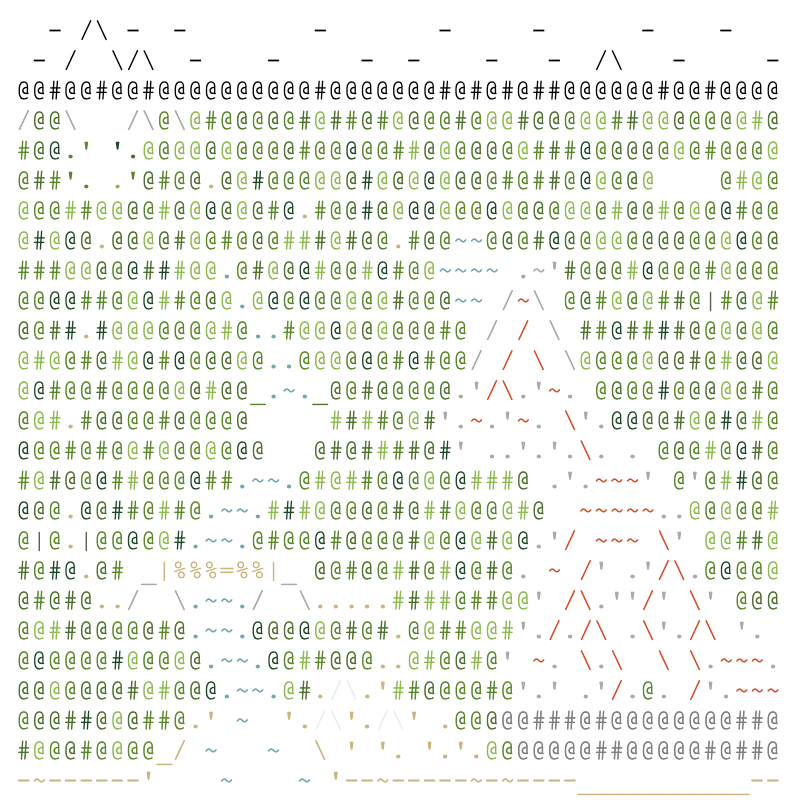
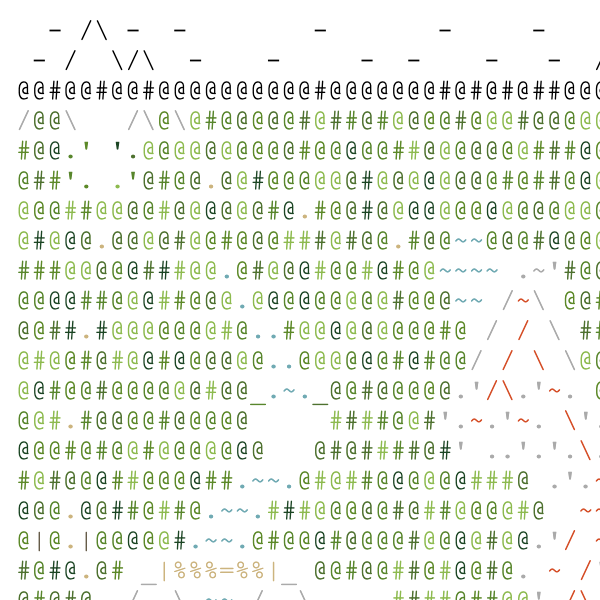
images float

diff --git a/utils/yearly_readme.py b/utils/yearly_readme.py
@@ -85,7 +85,7 @@ def build_year(year, src=None):
     # filtered = filtered.replace("</a>", "")
     styles = styles + "a:link {text-decoration: none; color: grey;}"
     hti = Html2Image()
-    path = hti.screenshot(html_str=days, css_str=styles, save_as=f"{year}.png", size=(400, 400))
+    path = hti.screenshot(html_str=days, css_str=styles, save_as=f"{year}.png", size=(300, 300))
     shutil.copyfile(path[0], f"../resources/{year}/progress.png")
 
     captions = get_day_captions(year)

diff --git a/resources/2022/README.md b/resources/2022/README.md
@@ -1,6 +1,8 @@
-<img align="left" style="float: left;" src="progress.png" width="550">
+<img align="left" style="float: left;" src="progress.png">
 
-<pre>
+<pre class="calendar">
+
+
 
 	<a href='day/24'>Day 24: Blizzard Basin</a>
 	<a href='day/23'>Day 23: Unstable Diffusion</a>
